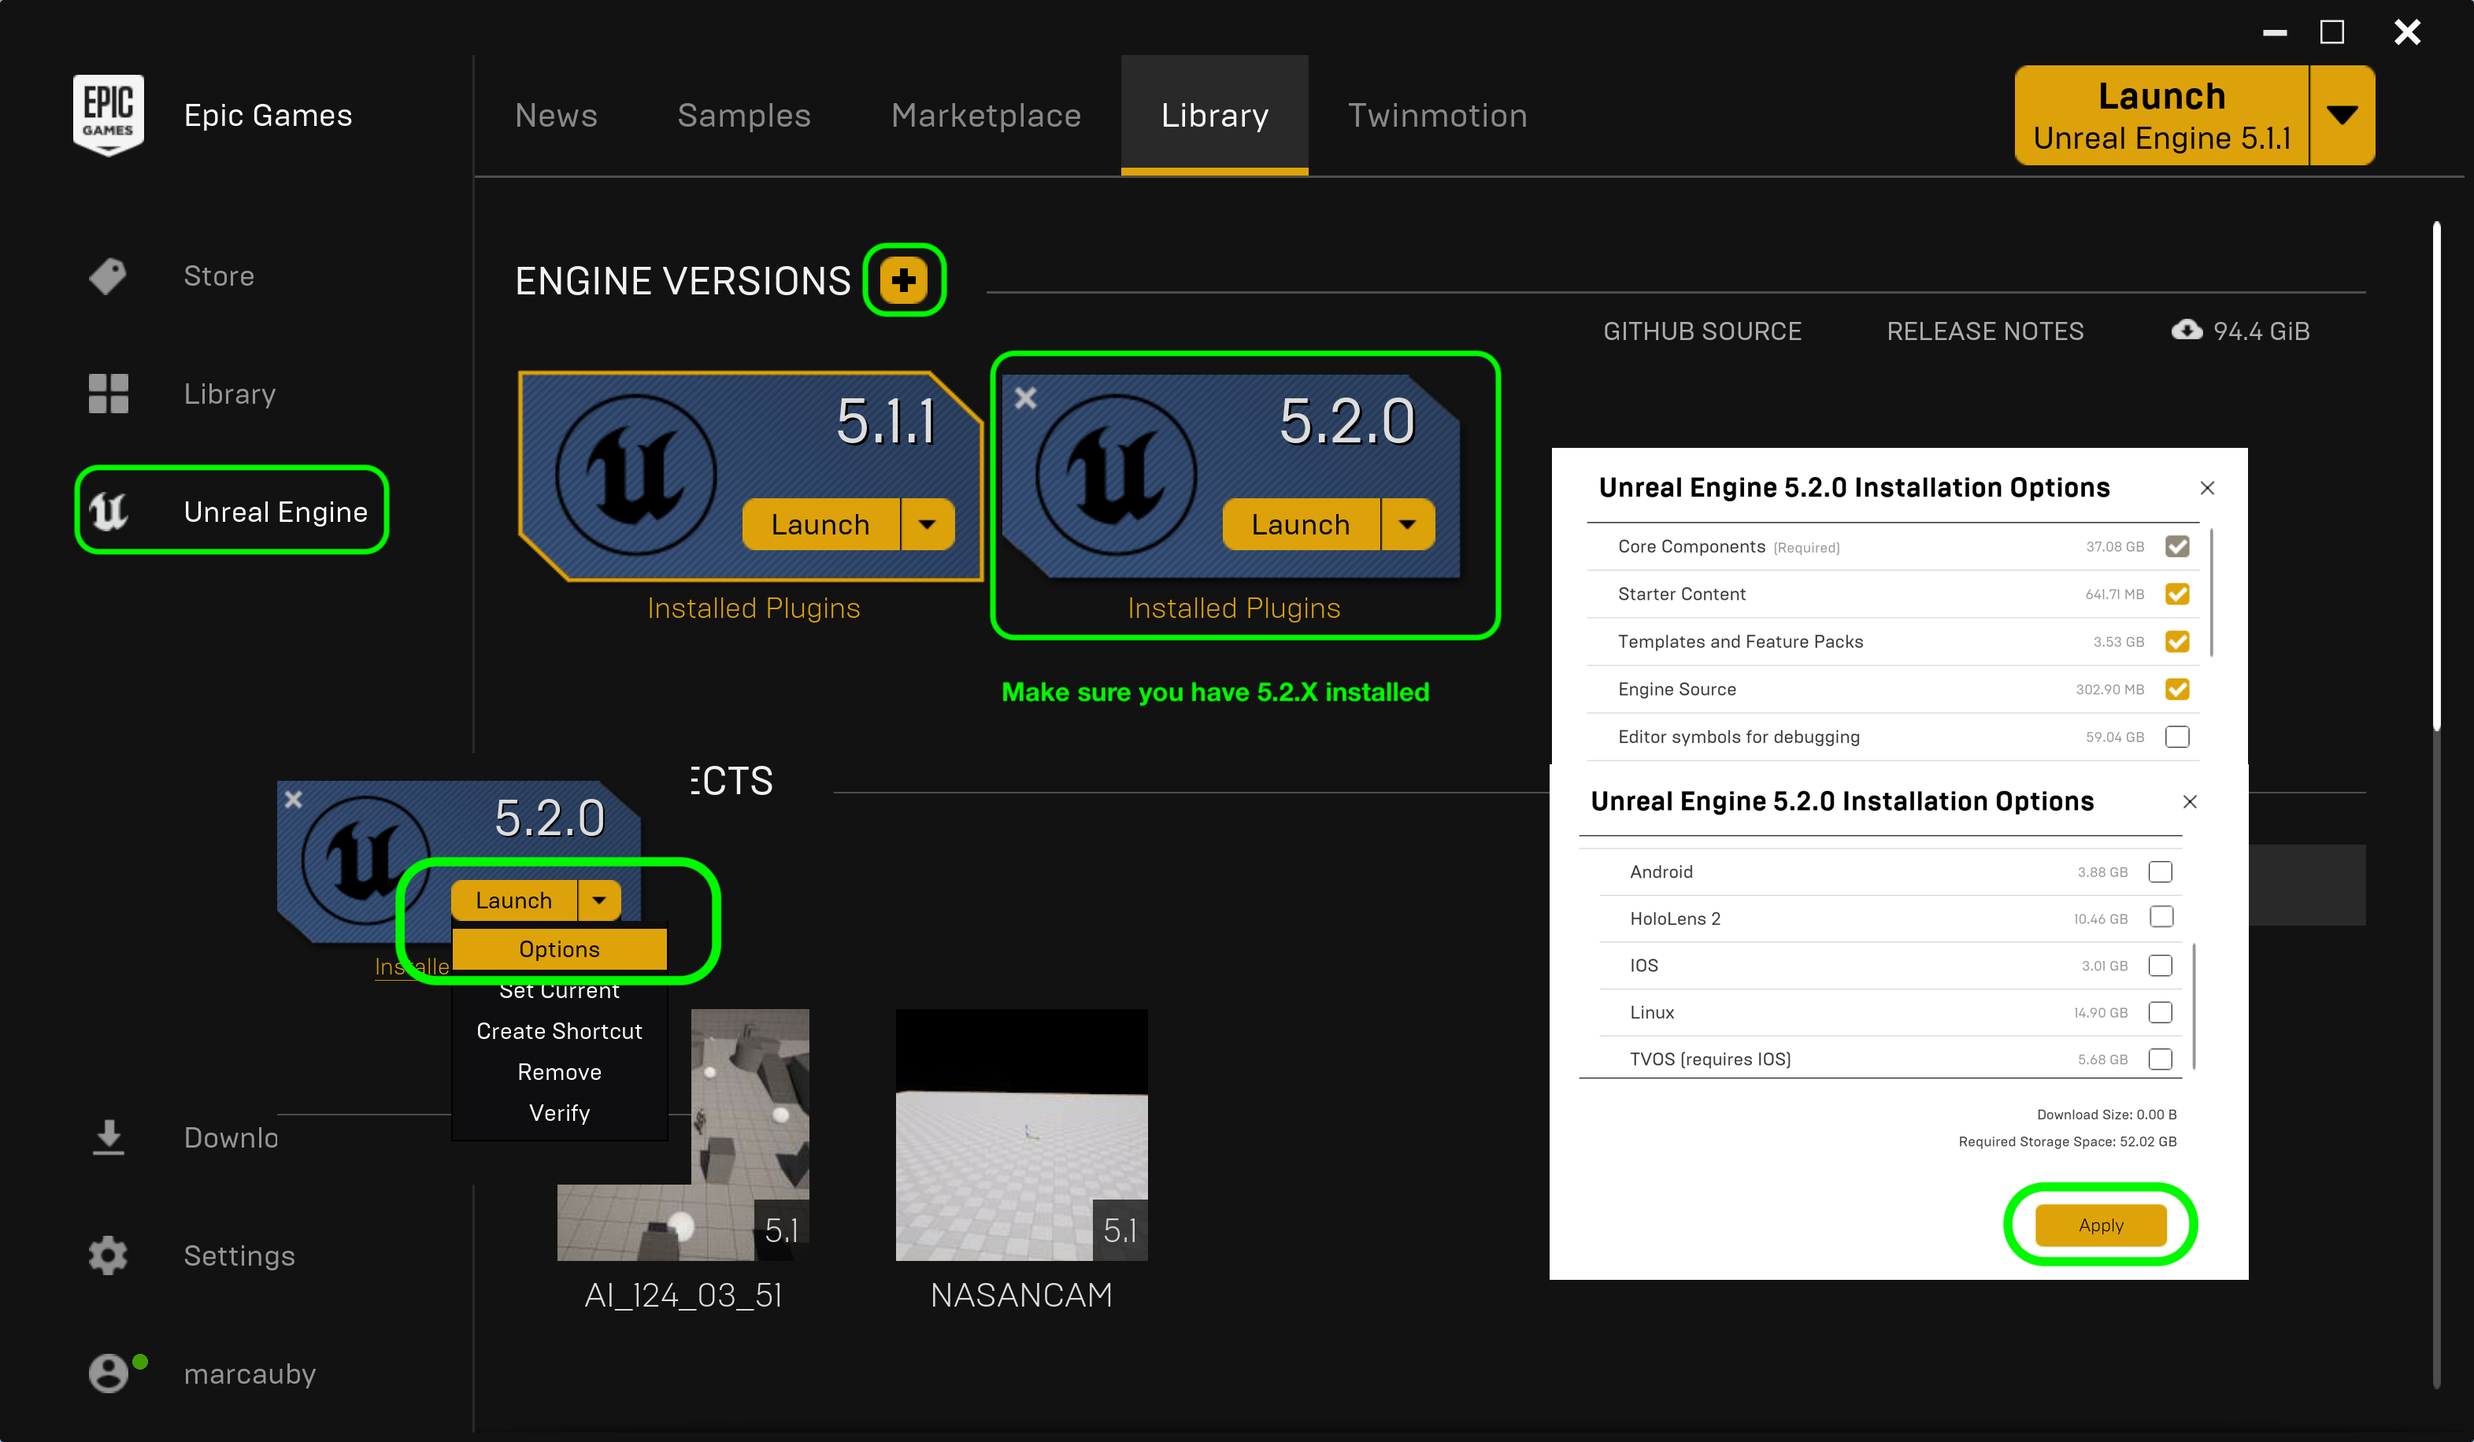
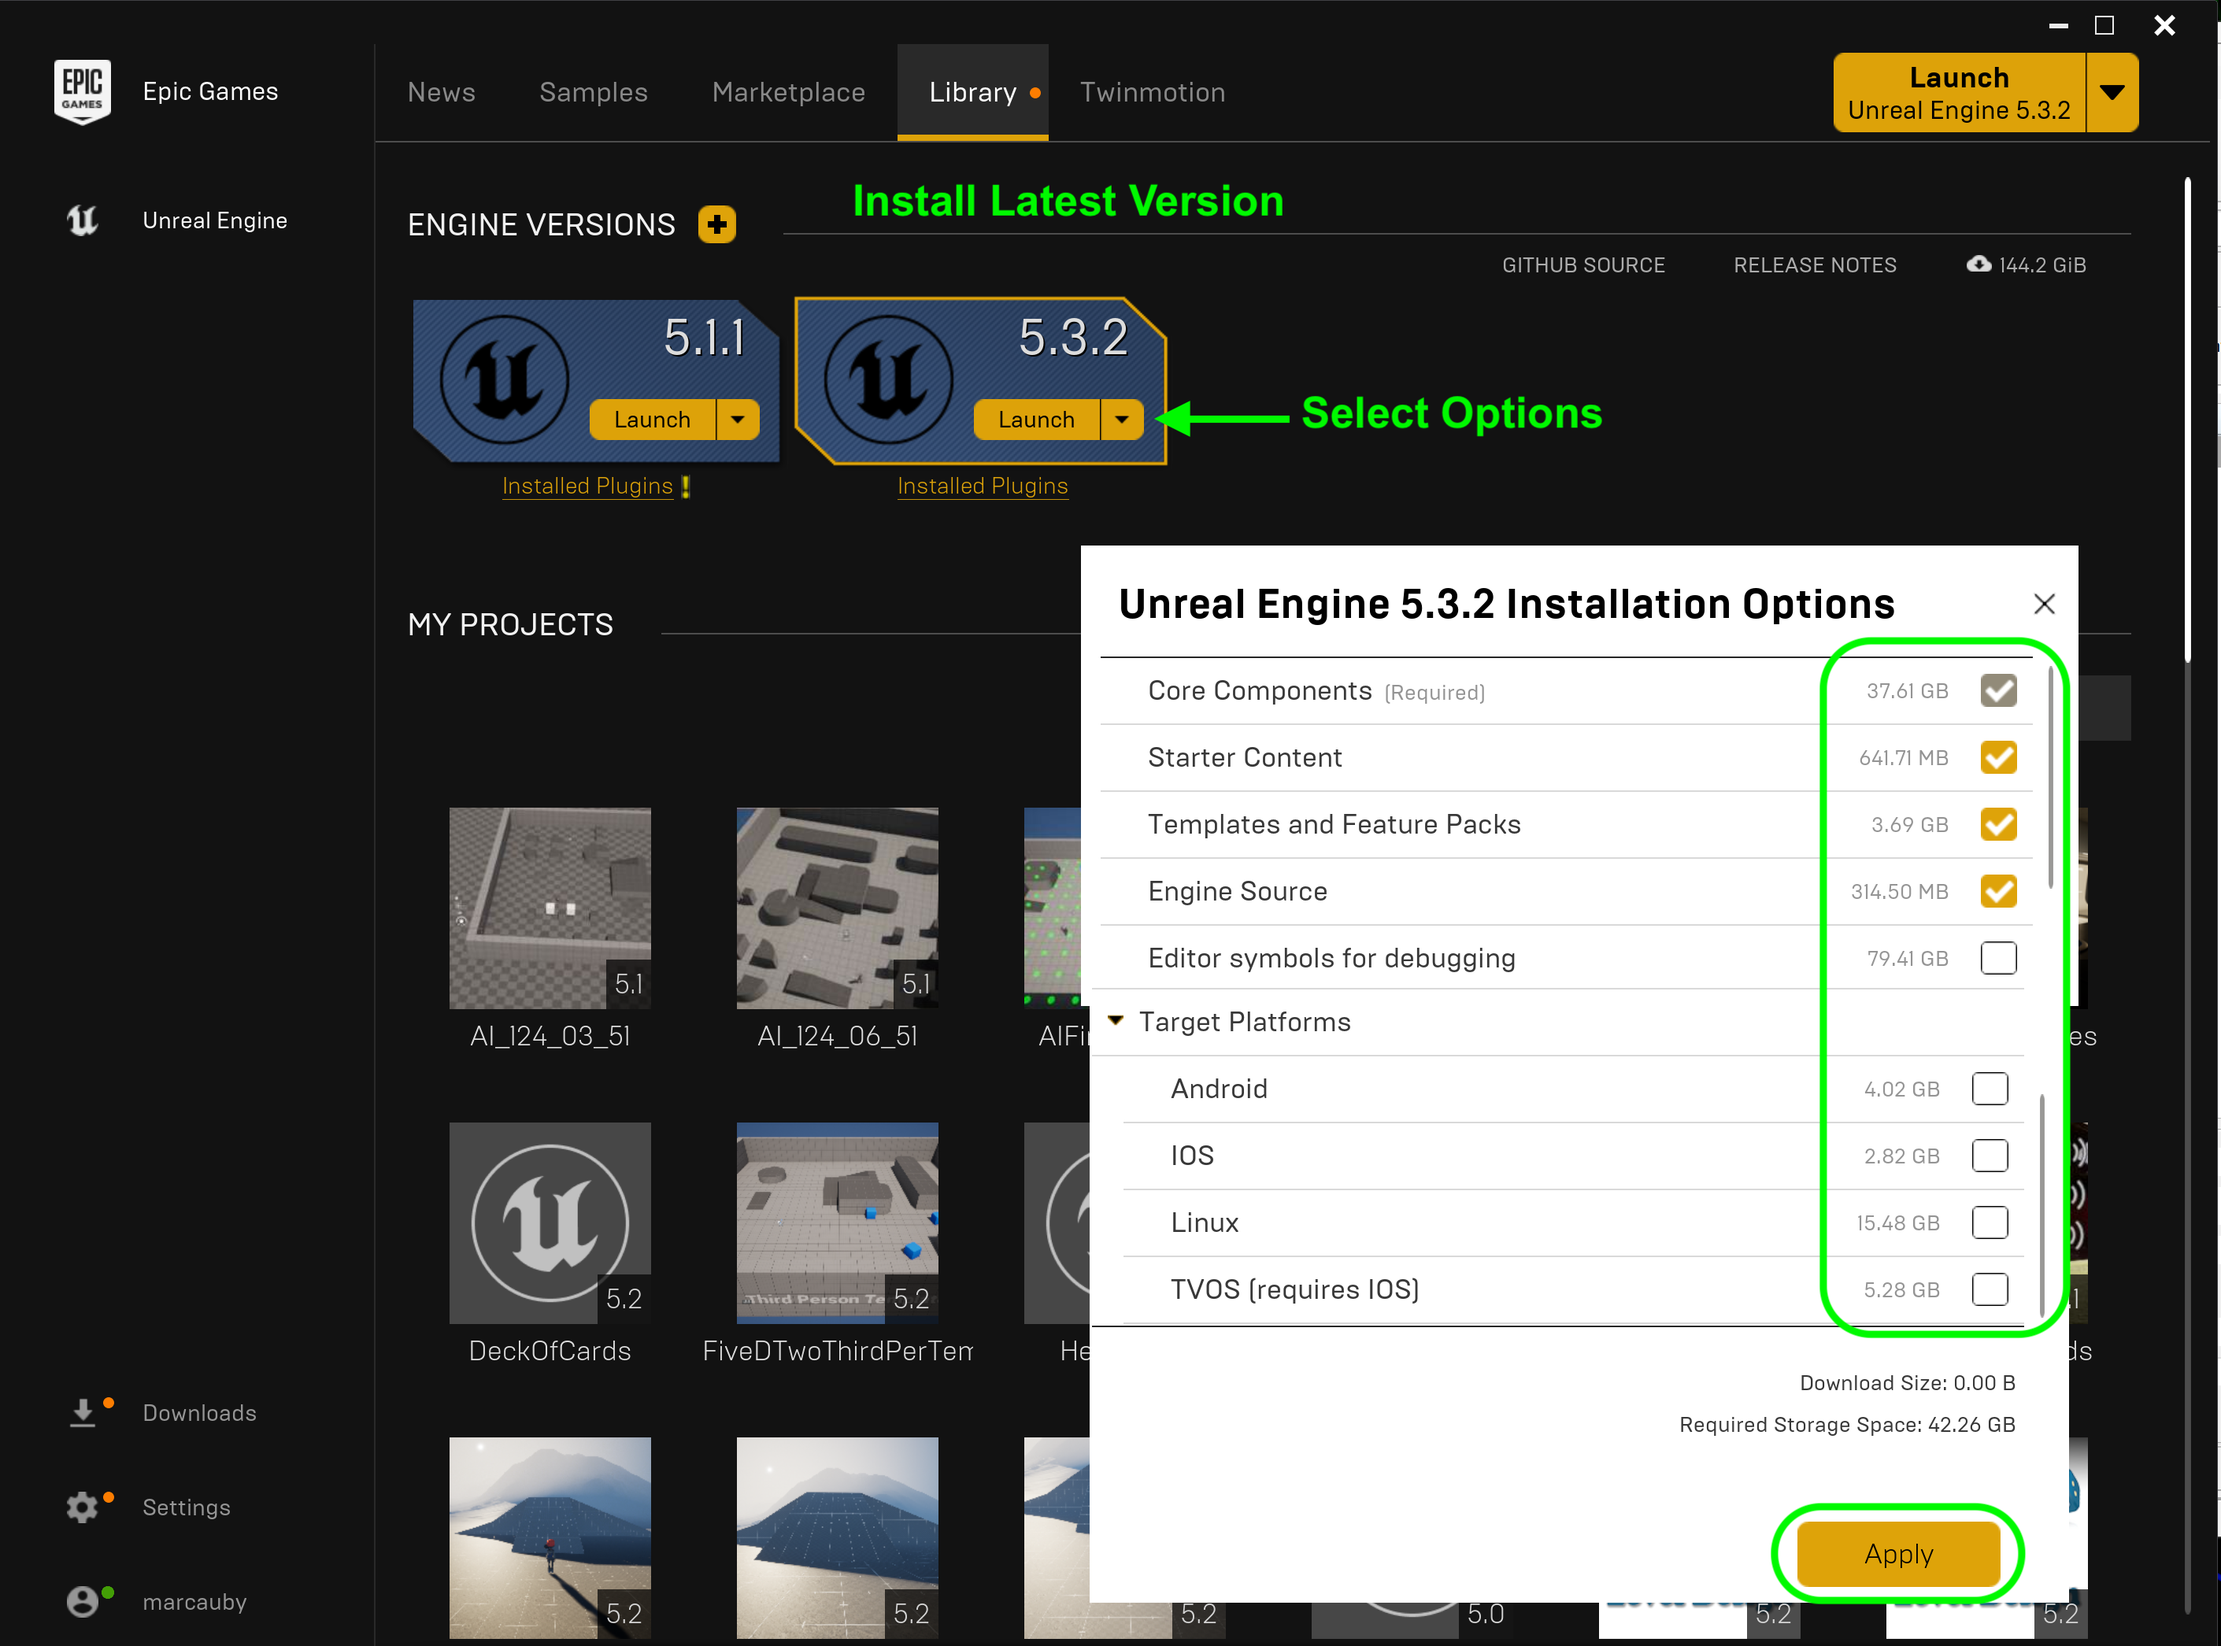
Updating to 5.3

diff --git a/setting-up/README.md b/setting-up/README.md
@@ -6,7 +6,7 @@
 
 ![](../images/line3.png)
 
-It is easiest to manage the various versions of Unreal using the **Epic Launcher**.  Thi allows you to install and run multiple versions of the engine.  Go to [Epic Launcher Download](https://store.epicgames.com/en-US/download) and install the Epic Game Launcher.  From here we will manage our game assets and resources. Intall Unreal 5.2 and use a PC.
+It is easiest to manage the various versions of Unreal using the **Epic Launcher**.  Thi allows you to install and run multiple versions of the engine.  Go to [Epic Launcher Download](https://store.epicgames.com/en-US/download) and install the Epic Game Launcher.  From here we will manage our game assets and resources. Intall Unreal 5.3.X and use a PC.
 
 <br>
 
@@ -14,8 +14,9 @@ It is easiest to manage the various versions of Unreal using the **Epic Launcher
 
 ##### `Step 1.`\|`BPOVR`|:small_blue_diamond:
 
-You will need to have an account with Epic games, but don't worry they are free to register for.  Unreal Engine 4 is freely available for students.
-Once you have installed the launcher run the program and select **Unreal Engine** on the side menu and **Library** on the top menu. Press the **+** button to add a new build (if needed) and select the latest version.  In my case it is `5.2.X`. Make sure it is of version `5.2.x` if you want to ensure that you are compatible with this walk through (the third digit should work as these represent non-breaking changes to the engine and just bug-fixes).
+You will need to have an account with Epic games, but don't worry they are free to register for.  Unreal Engine 5 is freely available for students.
+
+Once you have installed the launcher run the program and select **Unreal Engine** on the side menu and **Library** on the top menu. Press the **+** button to add a new build (if needed) and select the latest version.  In my case it is `5.3.X`. Make sure it is of version `5.3.x` if you want to ensure that you are compatible with this walk through (the third digit should work as these represent non-breaking changes to the engine and just bug-fixes).
 
 Also, before installing select **Options** and only download platforms you need support (PC is built in).  So I saved some space by removing hand held versions of the engine. We also do not need the **Editor symbols for debugging** yet so we can save ~60 gigs here by not including it.  You can add these at any time in the future.
 
@@ -25,7 +26,7 @@ Also, before installing select **Options** and only download platforms you need 
 
 ##### `Step 2.`\|`BPOVR`|:small_blue_diamond: :small_blue_diamond: 
 
-Now once it installs press the **Launch** button on the **5.2.X** version of Unreal.
+Now once it installs press the **Launch** button on the **5.3.X** version of Unreal.
 
 ![launch Unreal](images/launchGame.png)
 

diff --git a/README.md b/README.md
@@ -6,7 +6,7 @@ This walk through follows up on [UE5-CPP-Overview](https://github.com/maubanel/U
 
 This is a very quick overview of the foundation of the visual Blueprint scripting language in Unreal Engine 5. It will cover basic data types, type safety, order of operations, if statements, switch statements, while loops, for loops and scope.
 
-* Tested on Unreal Engine 5.2
+* Tested on Unreal Engine 5.3
 
 <br>
 
